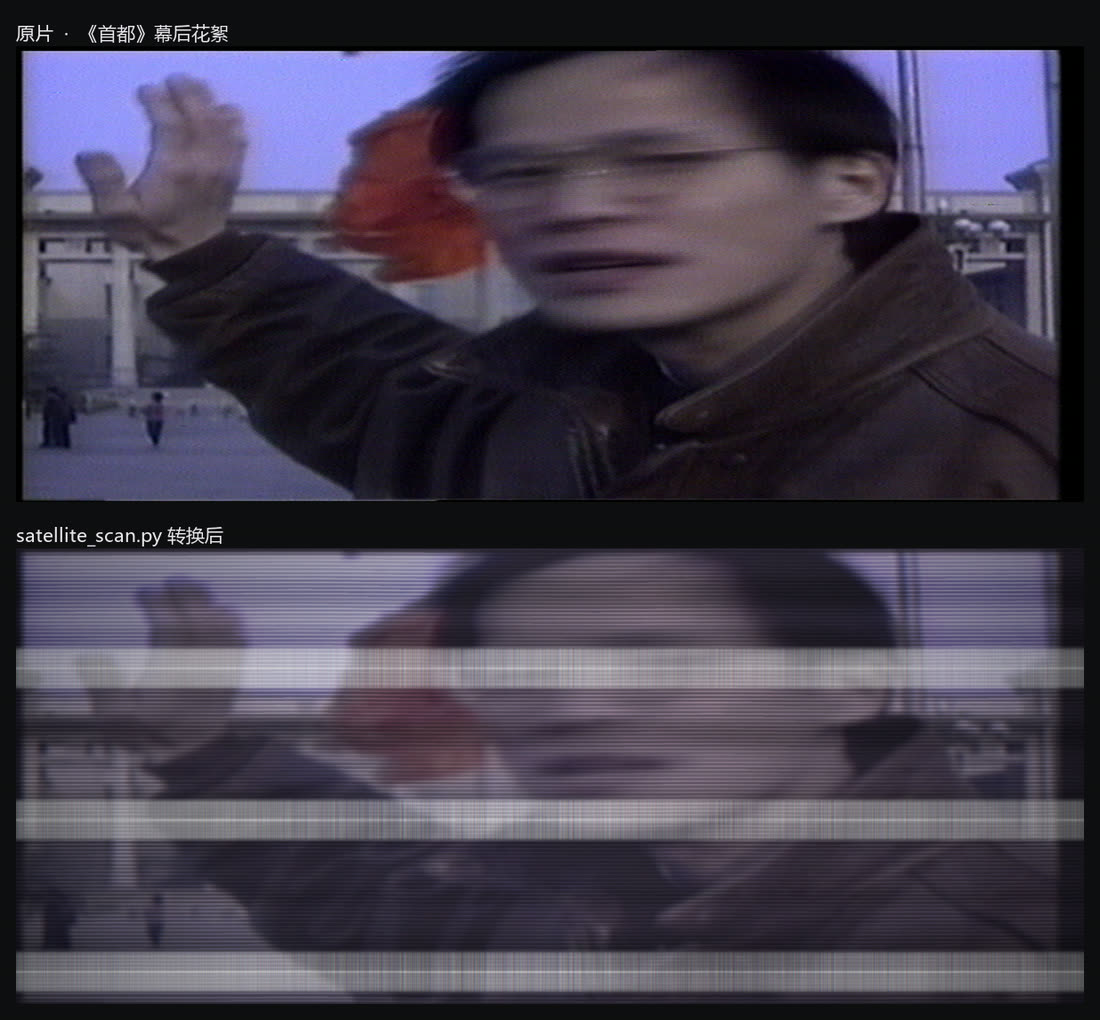
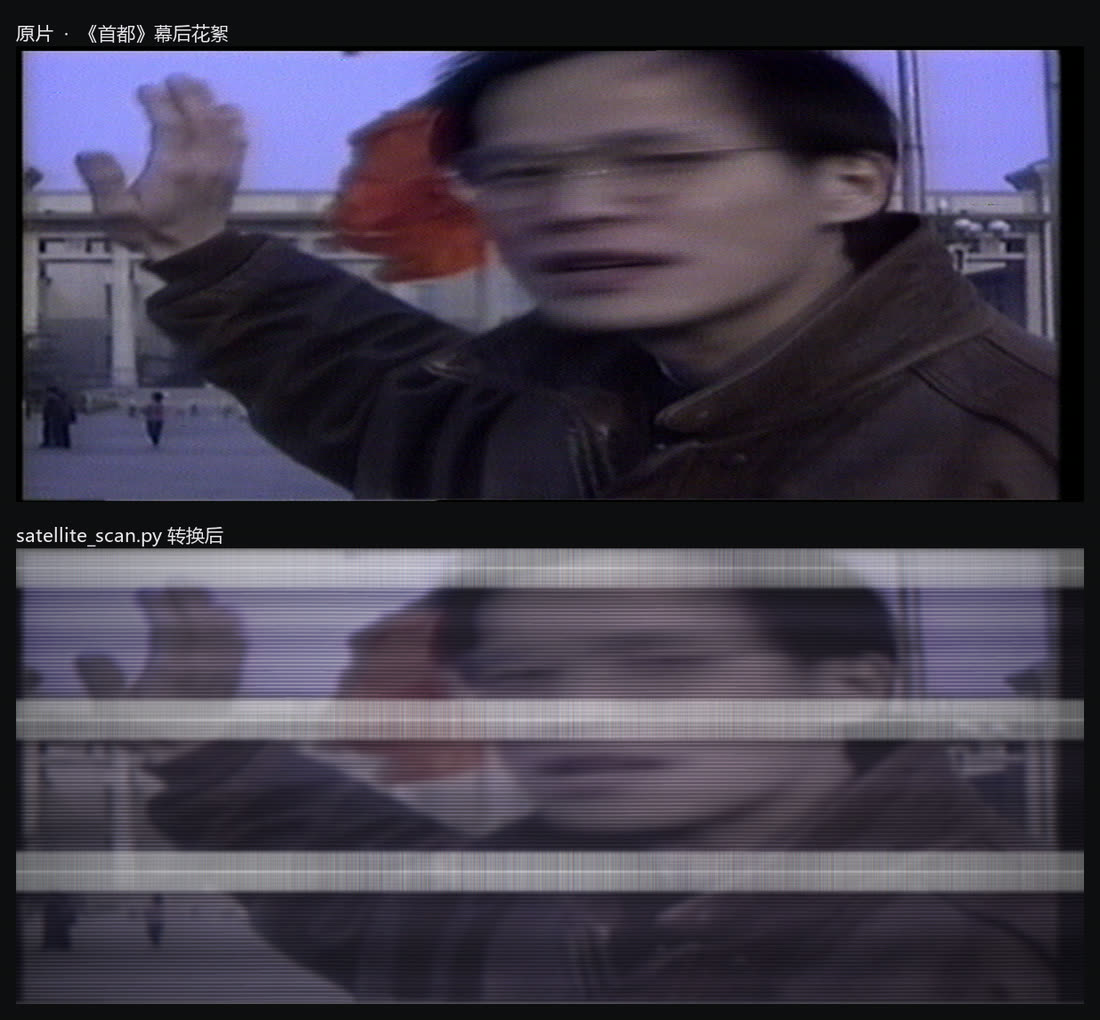
白条走速加快一倍：0.34 -> 0.68 画面高/秒
- bar_speed 默认值翻倍，natural 档 0.30 -> 0.60
- 重新生成 README 的动图与对比图

diff --git a/satellite_scan.py b/satellite_scan.py
@@ -87,7 +87,7 @@ LOOKS = {
         line_depth=0.12, hblur=3, grain=2, bloom=0.06,
         vignette=0.0, band_amp=0.0, chroma_split=0,
         bar_amp=0.62, bar_fringe=0.042, bar_core=0.0024, bar_fall=0.008,
-        bar_speed=0.30,
+        bar_speed=0.60,
     ),
     # 热成像：灰度 -> 熔岩色表
     "thermal": dict(
@@ -129,7 +129,7 @@ class Look:
 
     # ---- 白条扫描（这套效果的主角）----
     bar_amp: float = 0.70         # 白条峰值亮度（screen 混合量，1.0 = 压成死白）
-    bar_speed: float = 0.34       # 白条下移速度（每秒多少个画面高）
+    bar_speed: float = 0.68       # 白条下移速度（每秒多少个画面高）
     bar_period: float = 3.0       # 一屏里有几根白条（整数才能无缝循环）
     bar_core: float = 0.0028      # 白条本体（细亮线）半宽，画面高的比例
     bar_fringe: float = 0.050     # 白条外面那圈“稍淡的边框”半宽 <- 想更粗就调大

diff --git a/README.md b/README.md
@@ -34,7 +34,7 @@ real time and `--look natural` to leave colours completely untouched.
 | 画幅 | 2.39–2.43 : 1（4:3 横向拉宽） | `--fit stretch`，默认 1920×820 |
 | 白条根数 / 间隔 | 一屏 3 根，间隔 ≈ 0.32 画面高 | `bar_period=3`，周期 H/3，无缝循环 |
 | 白条结构 | 一条细白线 + 一圈更淡更粗、**边缘明确**的边框 | `bar_core=0.0028` / `bar_fringe=0.050` |
-| 白条走速 | ≈ 0.28 画面高/秒 | `bar_speed=0.34`（按输出时间算，不随倍速变） |
+| 白条走速 | ≈ 0.28 画面高/秒 | `bar_speed=0.68`（有意比参考帧快一倍，按输出时间算） |
 | 扫描线间距 | ≈ 5.1 px @630 高 = 0.8% 画面高 | `pitch=0.0082` |
 | 扫描线幅度 | 约亮度的 ±9–12% | `line_depth=0.26` |
 | 扫描线横向相位 | 相隔 1100 px 时相关系数降到 0.05 | 沿 x 叠三个低频正弦做相位漂移 |
@@ -99,7 +99,7 @@ python satellite_scan.py in.mp4 -o out.mp4 --fit cover
 | `--intensity` | 1.0 | 整体强度，0 = 原片 |
 | `--speed` | **3** | 输出倍速，1 = 原速 |
 | `--bar-amp` | 0.70 | 白条峰值亮度，1.0 = 压成死白 |
-| `--bar-speed` | 0.34 | 白条下移速度（**输出**画面高/秒，不随 `--speed` 变） |
+| `--bar-speed` | 0.68 | 白条下移速度（**输出**画面高/秒，不随 `--speed` 变） |
 | `--bar-period` | 3 | 一屏几根白条（整数才能无缝循环） |
 | `--bar-fringe` | 0.050 | 白条外圈淡色边框的半宽，调大边框变粗 |
 | `--bar-core` | 0.0028 | 白条本体（细亮线）半宽 |
